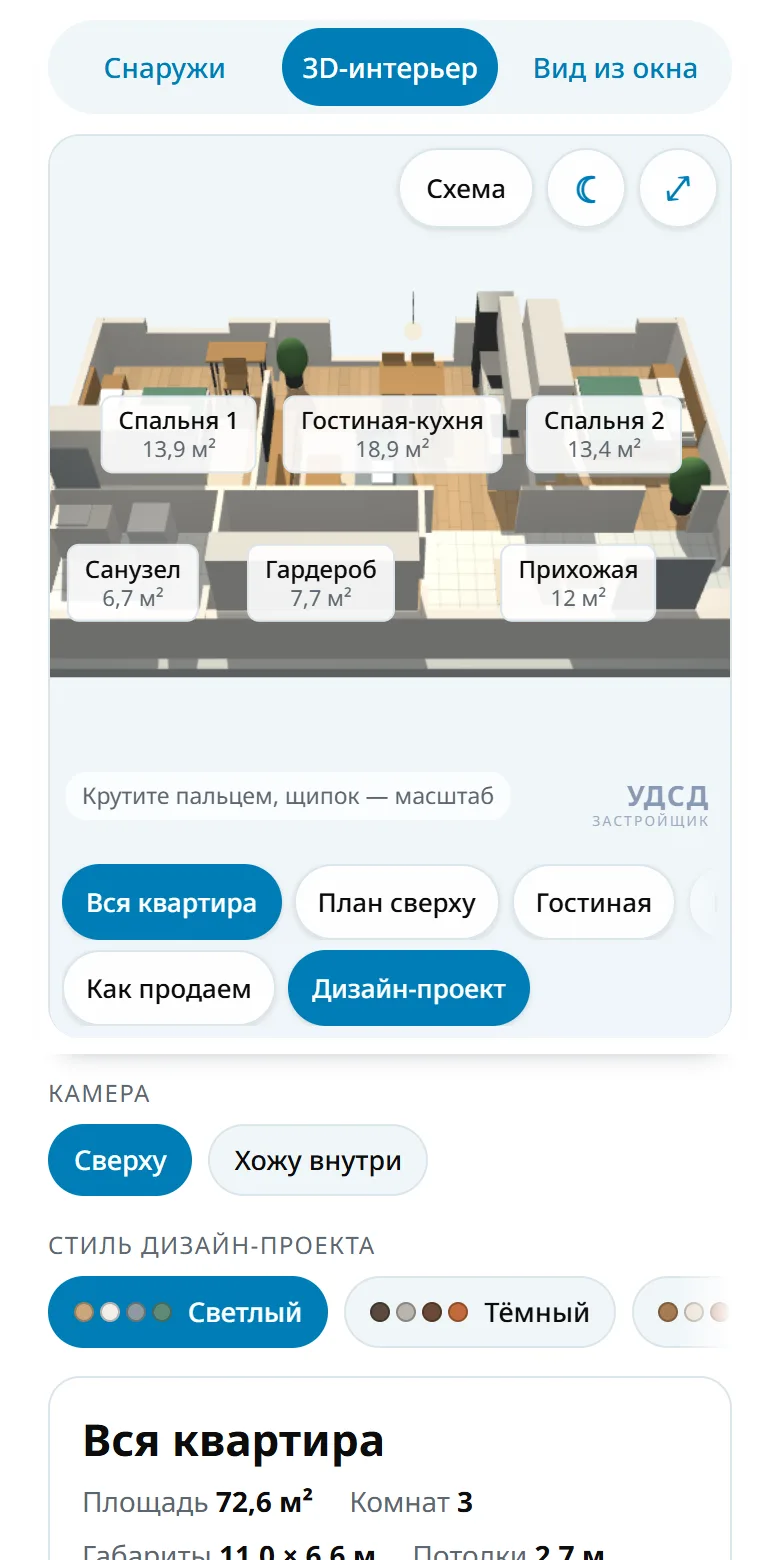
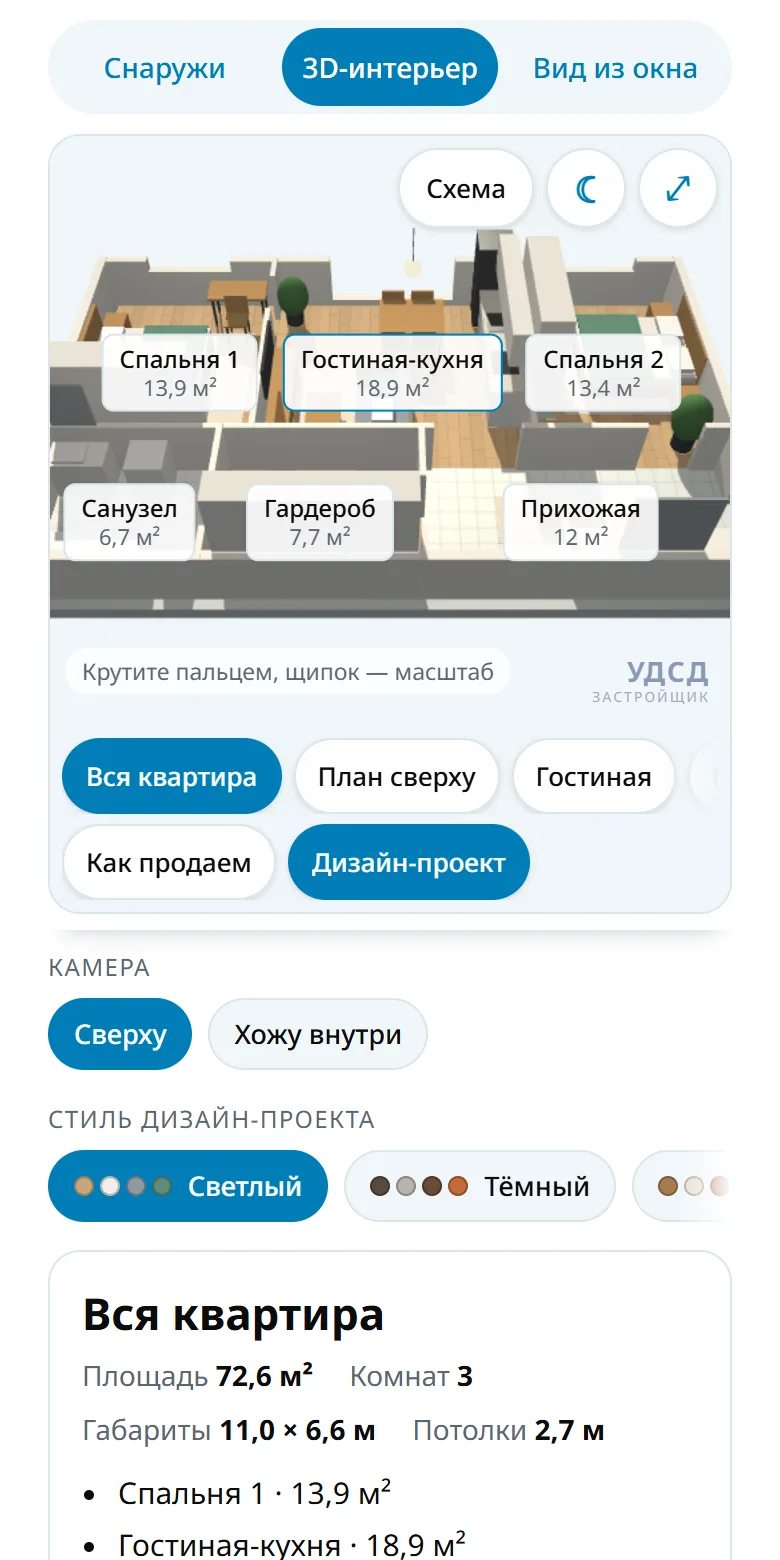
Телефон: при прокрутке 3D уменьшается, под ней видно панели
После прокрутки вниз закреплённая сцена сжимается до трети экрана и прячет ряды кнопок; у верха страницы возвращается во весь размер. Высоты по видимой части экрана Safari (svh). Кнопка студии короче.

diff --git a/demo/index.html b/demo/index.html
@@ -63,8 +63,8 @@ h1{font-family:var(--f-display);font-weight:700;font-size:clamp(26px,6vw,38px);l
 /* pinned block: tabs + stage stick to the top of the screen; the rest of the page scrolls under it.
    Phones get a shorter stage so there is room to scroll the controls; short landscape screens do not pin at all. */
 .pin{position:sticky;top:0;z-index:5;display:flex;flex-direction:column;gap:10px;background:var(--bg);margin:0 -4px;padding:max(6px,env(safe-area-inset-top,0px)) 4px 8px;box-shadow:0 10px 12px -12px rgba(15,40,55,.35)}
-@media (max-height:560px){.pin{position:static;box-shadow:none}}
-.stage{position:relative;height:clamp(340px,58vh,640px);background:var(--stage);border:1px solid var(--line);border-radius:16px;overflow:hidden;--dockh:0px}
+@media (max-height:480px){.pin{position:static;box-shadow:none}}   /* a phone held sideways: no room to pin */
+.stage{position:relative;height:clamp(340px,58vh,640px);height:clamp(340px,58svh,640px);background:var(--stage);border:1px solid var(--line);border-radius:16px;overflow:hidden;--dockh:0px}
 .stage canvas{display:block;width:100%;height:100%;touch-action:none}
 /* controls on the stage: a dock of chip rows along the bottom edge, day/evening under the plan button */
 .dock{position:absolute;left:0;right:0;bottom:0;display:flex;flex-direction:column;gap:6px;padding:22px 8px 8px;background:linear-gradient(to top,color-mix(in srgb,var(--stage) 92%,transparent) 55%,transparent);touch-action:pan-x;pointer-events:none}
@@ -184,6 +184,16 @@ svg text{font-family:var(--f-body)}
   .stage.walk .logo{display:none}
   .stage.walk[data-mode="int"] .hint{max-width:calc(100% - min(46%,190px) - 24px)}
   .sh-head h2{font-size:22px}
+  /* sizes from the visible screen (svh: Safari with its toolbars shown), so the 3D never takes the whole phone */
+  .stage{height:clamp(300px,50vh,560px);height:clamp(300px,50svh,560px)}
+  /* scrolled down to the panels: the pinned 3D shrinks to a third of the screen and drops its button rows
+     (they come back when the page is scrolled to the top again), so the controls below have room */
+  body.pinned:not(.full) .pin{gap:6px;padding-bottom:6px}
+  body.pinned:not(.full) .tabs{padding:3px}
+  body.pinned:not(.full) .tabs button{padding:7px 2px}
+  body.pinned:not(.full) .stage{height:clamp(170px,32vh,300px);height:clamp(170px,32svh,300px)}
+  body.pinned:not(.full) #dock,body.pinned:not(.full) .hint,body.pinned:not(.full) .logo,body.pinned:not(.full) .mini{display:none}
+  body.pinned:not(.full) .badge{bottom:6px}
 }
 @media (max-width:360px){
   .tabs button{font-size:13px;padding:9px 2px}
@@ -207,6 +217,7 @@ svg text{font-family:var(--f-body)}
   </header>
 
   <!-- the mode tabs and the 3D stage stay pinned at the top while the controls and the card below scroll under them -->
+  <div id="pinMark" aria-hidden="true"></div>
   <div class="pin" id="pin">
   <div class="tabs" role="group" aria-label="Режим">
     <button type="button" id="tExt" aria-pressed="true">Снаружи</button>
@@ -1414,7 +1425,7 @@ svg text{font-family:var(--f-body)}
     const tx = document.createTextNode(''); b.appendChild(tx); aptBtns[l] = { dot: dot, tx: tx };
   });
   function fillApts() {
-    LETTERS.forEach((l) => { const st = status(S.sec, S.floor, l), t = TYPES[l]; aptBtns[l].dot.style.background = ST[st].c; aptBtns[l].tx.nodeValue = ' ' + t.n + ' · ' + (narrow() ? t.short.replace('-комн.', '-к') : t.short + ' ' + fmt(t.area)); });   // phones: all four fit in one row, the area is in the card
+    LETTERS.forEach((l) => { const st = status(S.sec, S.floor, l), t = TYPES[l]; aptBtns[l].dot.style.background = ST[st].c; aptBtns[l].tx.nodeValue = ' ' + t.n + ' · ' + (narrow() ? t.short.replace('-комн.', '-к').replace('Студия', 'ст.') : t.short + ' ' + fmt(t.area)); });   // phones: all four fit in one row, the area is in the card
   }
   const actPlan = chip($('rAct'), 'Схема планировки', () => false, () => openPlan());
   const act3d = chip($('rAct'), 'Интерьер 3D', () => false, () => { S.mode = 'ext'; enterInterior(true); refresh(true); });
@@ -1444,6 +1455,15 @@ svg text{font-family:var(--f-body)}
     resize(); refresh(true);
   }
   fullBtn.addEventListener('click', () => setFull(!document.body.classList.contains('full')));
+  // phones: once the page is scrolled past the top of the pinned block, the 3D goes compact (CSS body.pinned).
+  // Two thresholds, so the shorter page after shrinking does not flip it straight back.
+  const pinMark = $('pinMark');
+  function checkPin() {
+    const b = document.body, top = pinMark.getBoundingClientRect().top;
+    const on = narrow() && !b.classList.contains('full') && (b.classList.contains('pinned') ? top < -4 : top < -48);
+    if (on !== b.classList.contains('pinned')) { b.classList.toggle('pinned', on); wake(); }
+  }
+  addEventListener('scroll', checkPin, { passive: true }); addEventListener('resize', checkPin);
   document.addEventListener('keydown', (e) => { if (e.key === 'Escape' && document.body.classList.contains('full') && sheetEl.hidden) setFull(false); });
   $('tInt').addEventListener('click', () => { if (S.mode !== 'int') { enterInterior(true); refresh(true); } });
   $('tWin').addEventListener('click', () => { if (S.mode !== 'win') { enterWindow(); refresh(true); } });

diff --git a/CLAUDE.md b/CLAUDE.md
@@ -47,3 +47,4 @@
 - Порядок вкладок: **Снаружи → 3D-интерьер → Вид из окна**; демо открывается на «Снаружи» у нашей квартиры (в конце инициализации `enterExt`). Экраны в КП и `tools/mockups.js` — в том же порядке.
 - Телефон (≤640px, `narrow()` в JS — тот же порог): плашка и заголовок компактные (`.lg`/`.sm` — длинный и короткий варианты текста), сверху сцены один ряд `.tbar` (Схема, переключатель день/вечер `#timeBtn` вместо чипов `#rTime`, `#fullBtn`), подпись местоположения — одной строкой над доком, подсказка короткая и прячется через 4 с, кнопки квартир «А · 3-к 72,6». Полноэкранный режим — `body.full` (блок `.pin` на весь экран, строка-дисклеймер `.fullnote` под сценой). Блок CSS для телефонов стоит в конце `<style>`, иначе базовые правила его перебивают. КП на телефоне: закреплённая снизу панель `.mbar` (Открыть демо, Позвонить).
 - Проверка «всё помещается» на 320/360/375/390/414 px: ряды чипов шире экрана затухают у края (`fades()` → классы `more-l/more-r`); у чипов есть короткая подпись для телефона (`chip(..., { short })`); камера плана вписывает этаж по углу обзора целевого режима (`updateFov()` в `camFor`), `maxDistance` в интерьере не меньше расстояния вида.
+- Телефон, прокрутка: после прокрутки ниже `#pinMark` на 48 px у `body` класс `pinned` (`checkPin()`, обратно — у самого верха): закреплённая 3D уменьшается до ~32svh и прячет док, подсказку, логотип, мини-карту, чтобы панели и карточка были видны (жалоба с iPhone, 27.10.2026). Высоты на телефоне — в `svh` (видимая часть экрана Safari с панелями), с запасным `vh`.
